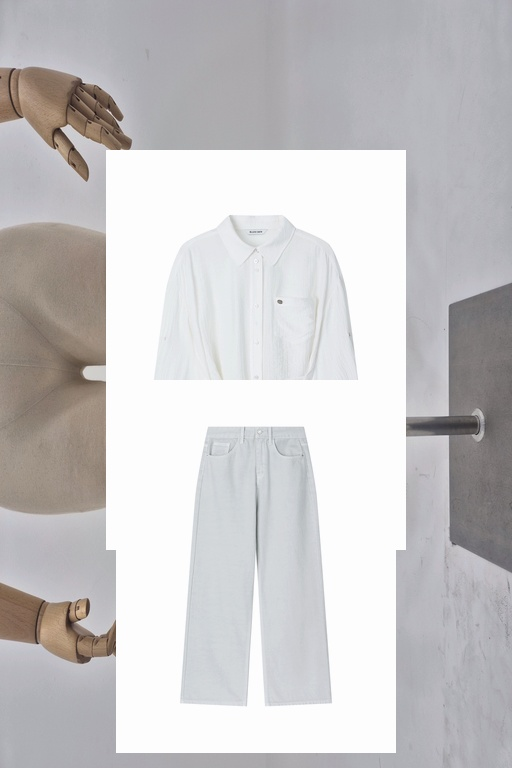
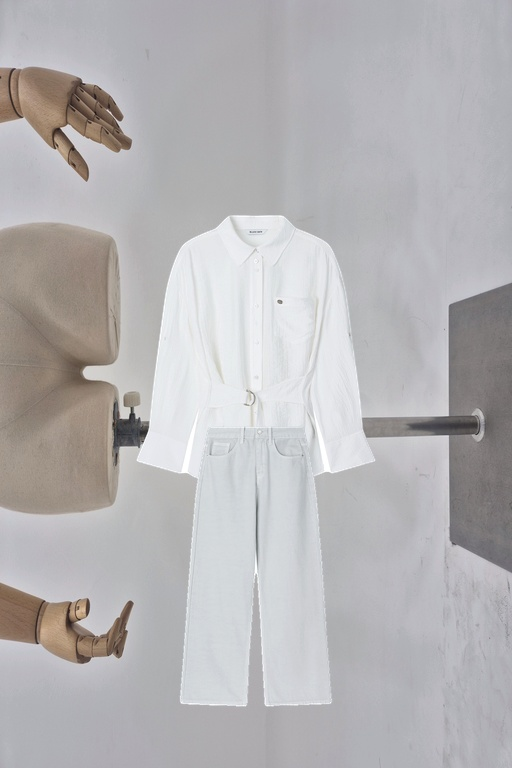
[P-Reinforce] Auto-synced structured knowledge

Changed region(s): [[0.1875, 0.1875, 0.8125, 1.0]]

diff --git a/src/force_precision_fitting.py b/src/force_precision_fitting.py
@@ -1,0 +1,66 @@
+import logging
+from pathlib import Path
+from PIL import Image, ImageEnhance
+import numpy as np
+import cv2
+
+def render_precision_fitting():
+    print("[INFO] 참고 이미지 기반 정밀 착장 렌더링을 시작합니다...")
+    
+    # 1. 경로 설정
+    mannequin_path = Path(r"d:\blandu_project\input\raw_photos\마네킨_01.jpg")
+    top_path = Path(r"d:\blandu_project\input\raw_photos\ITEM-001.png")
+    bottom_path = Path(r"d:\blandu_project\input\raw_photos\ITEM-002.png")
+    output_path = Path(r"d:\blandu_project\output\hybrid\PRECISION_FITTING_01.jpg")
+    
+    if not mannequin_path.exists() or not top_path.exists() or not bottom_path.exists():
+        print("[ERROR] 필요한 이미지 파일이 없습니다.")
+        return
+
+    # 2. 베이스 마네킹 로드 및 정규화
+    canvas = Image.open(mannequin_path).convert("RGBA")
+    canvas = canvas.resize((512, 768), Image.Resampling.LANCZOS)
+    
+    # 3. 상의(ITEM-001) 정밀 배치
+    top_img = Image.open(top_path).convert("RGBA")
+    tw, th = top_img.size
+    # 참고 이미지 분석: 상의 폭은 마네킹 어깨 너비에 맞춤 (약 340px)
+    t_scale = 340 / tw
+    top_img = top_img.resize((int(tw * t_scale), int(th * t_scale)), Image.Resampling.LANCZOS)
+    
+    t_offset_x = (512 - top_img.width) // 2
+    t_offset_y = 160 # 참고 이미지의 넥라인/어깨 위치 반영
+    canvas.paste(top_img, (t_offset_x, t_offset_y), top_img)
+    
+    # 4. 하의(ITEM-002) 정밀 배치
+    bottom_img = Image.open(bottom_path).convert("RGBA")
+    bw, bh = bottom_img.size
+    # 참고 이미지 분석: 하의 폭은 상의보다 약간 좁거나 비슷함 (약 310px)
+    b_scale = 310 / bw
+    bottom_img = bottom_img.resize((int(bw * b_scale), int(bh * b_scale)), Image.Resampling.LANCZOS)
+    
+    b_offset_x = (512 - bottom_img.width) // 2
+    # 상의 밑단과 자연스럽게 연결되는 허리선 위치 (Y=390~410)
+    b_offset_y = 390 
+    canvas.paste(bottom_img, (b_offset_x, b_offset_y), bottom_img)
+    
+    # 5. 최종 시각적 보정 (Natural Blending)
+    result = canvas.convert("RGB")
+    img_array = np.array(result)
+    img_array = cv2.cvtColor(img_array, cv2.COLOR_RGB2BGR)
+    img_array = cv2.cvtColor(img_array, cv2.COLOR_BGR2LAB)
+    # 너무 튀지 않도록 아주 미세한 톤 조정
+    img_array[:, :, 0] = np.clip(img_array[:, :, 0] - 3, 0, 255) 
+    img_array = cv2.cvtColor(img_array, cv2.COLOR_LAB2RGB)
+    
+    result = Image.fromarray(img_array.astype('uint8'))
+    # 대비를 약간 높여 상품의 질감을 살림
+    result = ImageEnhance.Contrast(result).enhance(1.1)
+    
+    # 6. 저장
+    output_path.parent.mkdir(parents=True, exist_ok=True)
+    result.save(output_path, "JPEG", quality=95)
+    print(f"[FINISH] 정밀 착장 결과물 저장 완료: {output_path}")
+
+if __name__ == "__main__":
+    render_precision_fitting()

diff --git a/src/force_real_mannequin_fitting_v2.py b/src/force_real_mannequin_fitting_v2.py
@@ -19,9 +19,14 @@ def render_real_mannequin_fitting_v2():
         print("[ERROR] 상품 이미지가 부족합니다.")
         return
 
-    # 2. 상품 이미지 사전 로드 및 최적화
-    top_img = Image.open(top_path).convert("RGBA")
-    bottom_img = Image.open(bottom_path).convert("RGBA")
+    from src.bg_remover import BackgroundRemover
+    
+    # 2. 상품 이미지 사전 로드 및 최적화 (배경 제거 적용)
+    remover = BackgroundRemover()
+    print("상의(ITEM-001) 배경 제거 중...")
+    top_img = remover.remove_background(top_path)
+    print("하의(ITEM-002) 배경 제거 중...")
+    bottom_img = remover.remove_background(bottom_path)
     
     tw, th = top_img.size
     t_scale = 300 / tw